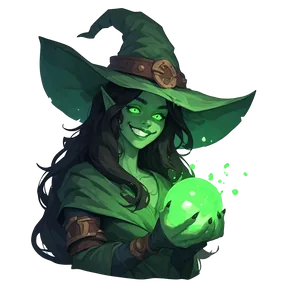
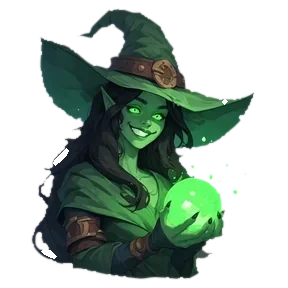
v9.83.5 : retire le blanc residuel des boss Liche et Sorciere
Claude-Session: https://claude.ai/code/session_014VBvzn7cPipHkoepy8RC9p

diff --git a/index.html b/index.html
@@ -6404,9 +6404,10 @@ function doImport() {
 
 
 /* ===================== Nouveautés (à mettre à jour à chaque version) ===================== */
-const APP_VERSION = '9.83.4'; // ⚠ Mettre aussi le même numéro dans version.json (sinon pas de mise à jour automatique)
+const APP_VERSION = '9.83.5'; // ⚠ Mettre aussi le même numéro dans version.json (sinon pas de mise à jour automatique)
 /* Notes de mise à jour : UNE seule entrée par jour. Si une entrée existe déjà pour aujourd'hui, mets-la à jour (v = dernière version, ajoute/réécris les puces) au lieu d'en ajouter une nouvelle. */
 const CHANGELOG = [
+  {v: '9.83.5', d: '2026-11-18', fr: ['Boss : les restes de fond blanc autour de la Liche des marais et de la Sorcière de jade sont retirés.'], en: ['Bosses: leftover white background removed around the Swamp Lich and the Jade Witch.']},
   {v: '9.83.4', d: '2026-11-18', fr: ['Ensembles : les récompenses secrètes (Grand Maître…) restent cachées (« ??? ») tant que tu ne les as pas débloquées.'], en: ['Sets: secret rewards stay hidden (“???”) until unlocked.']},
   {v: '9.83.3', d: '2026-11-18', fr: ['Armurerie : le Sceau du Grand Maître a son écusson peint.'], en: ['Armory: the Grandmaster Seal now has its painted crest.']},
   {v: '9.83.2', d: '2026-11-18', fr: ['Armurerie : les bannières ne dépassent plus de leur case dans les ensembles (Grand Maître, Prestige…).'], en: ['Armory: banners no longer overflow their tile inside sets.']},
